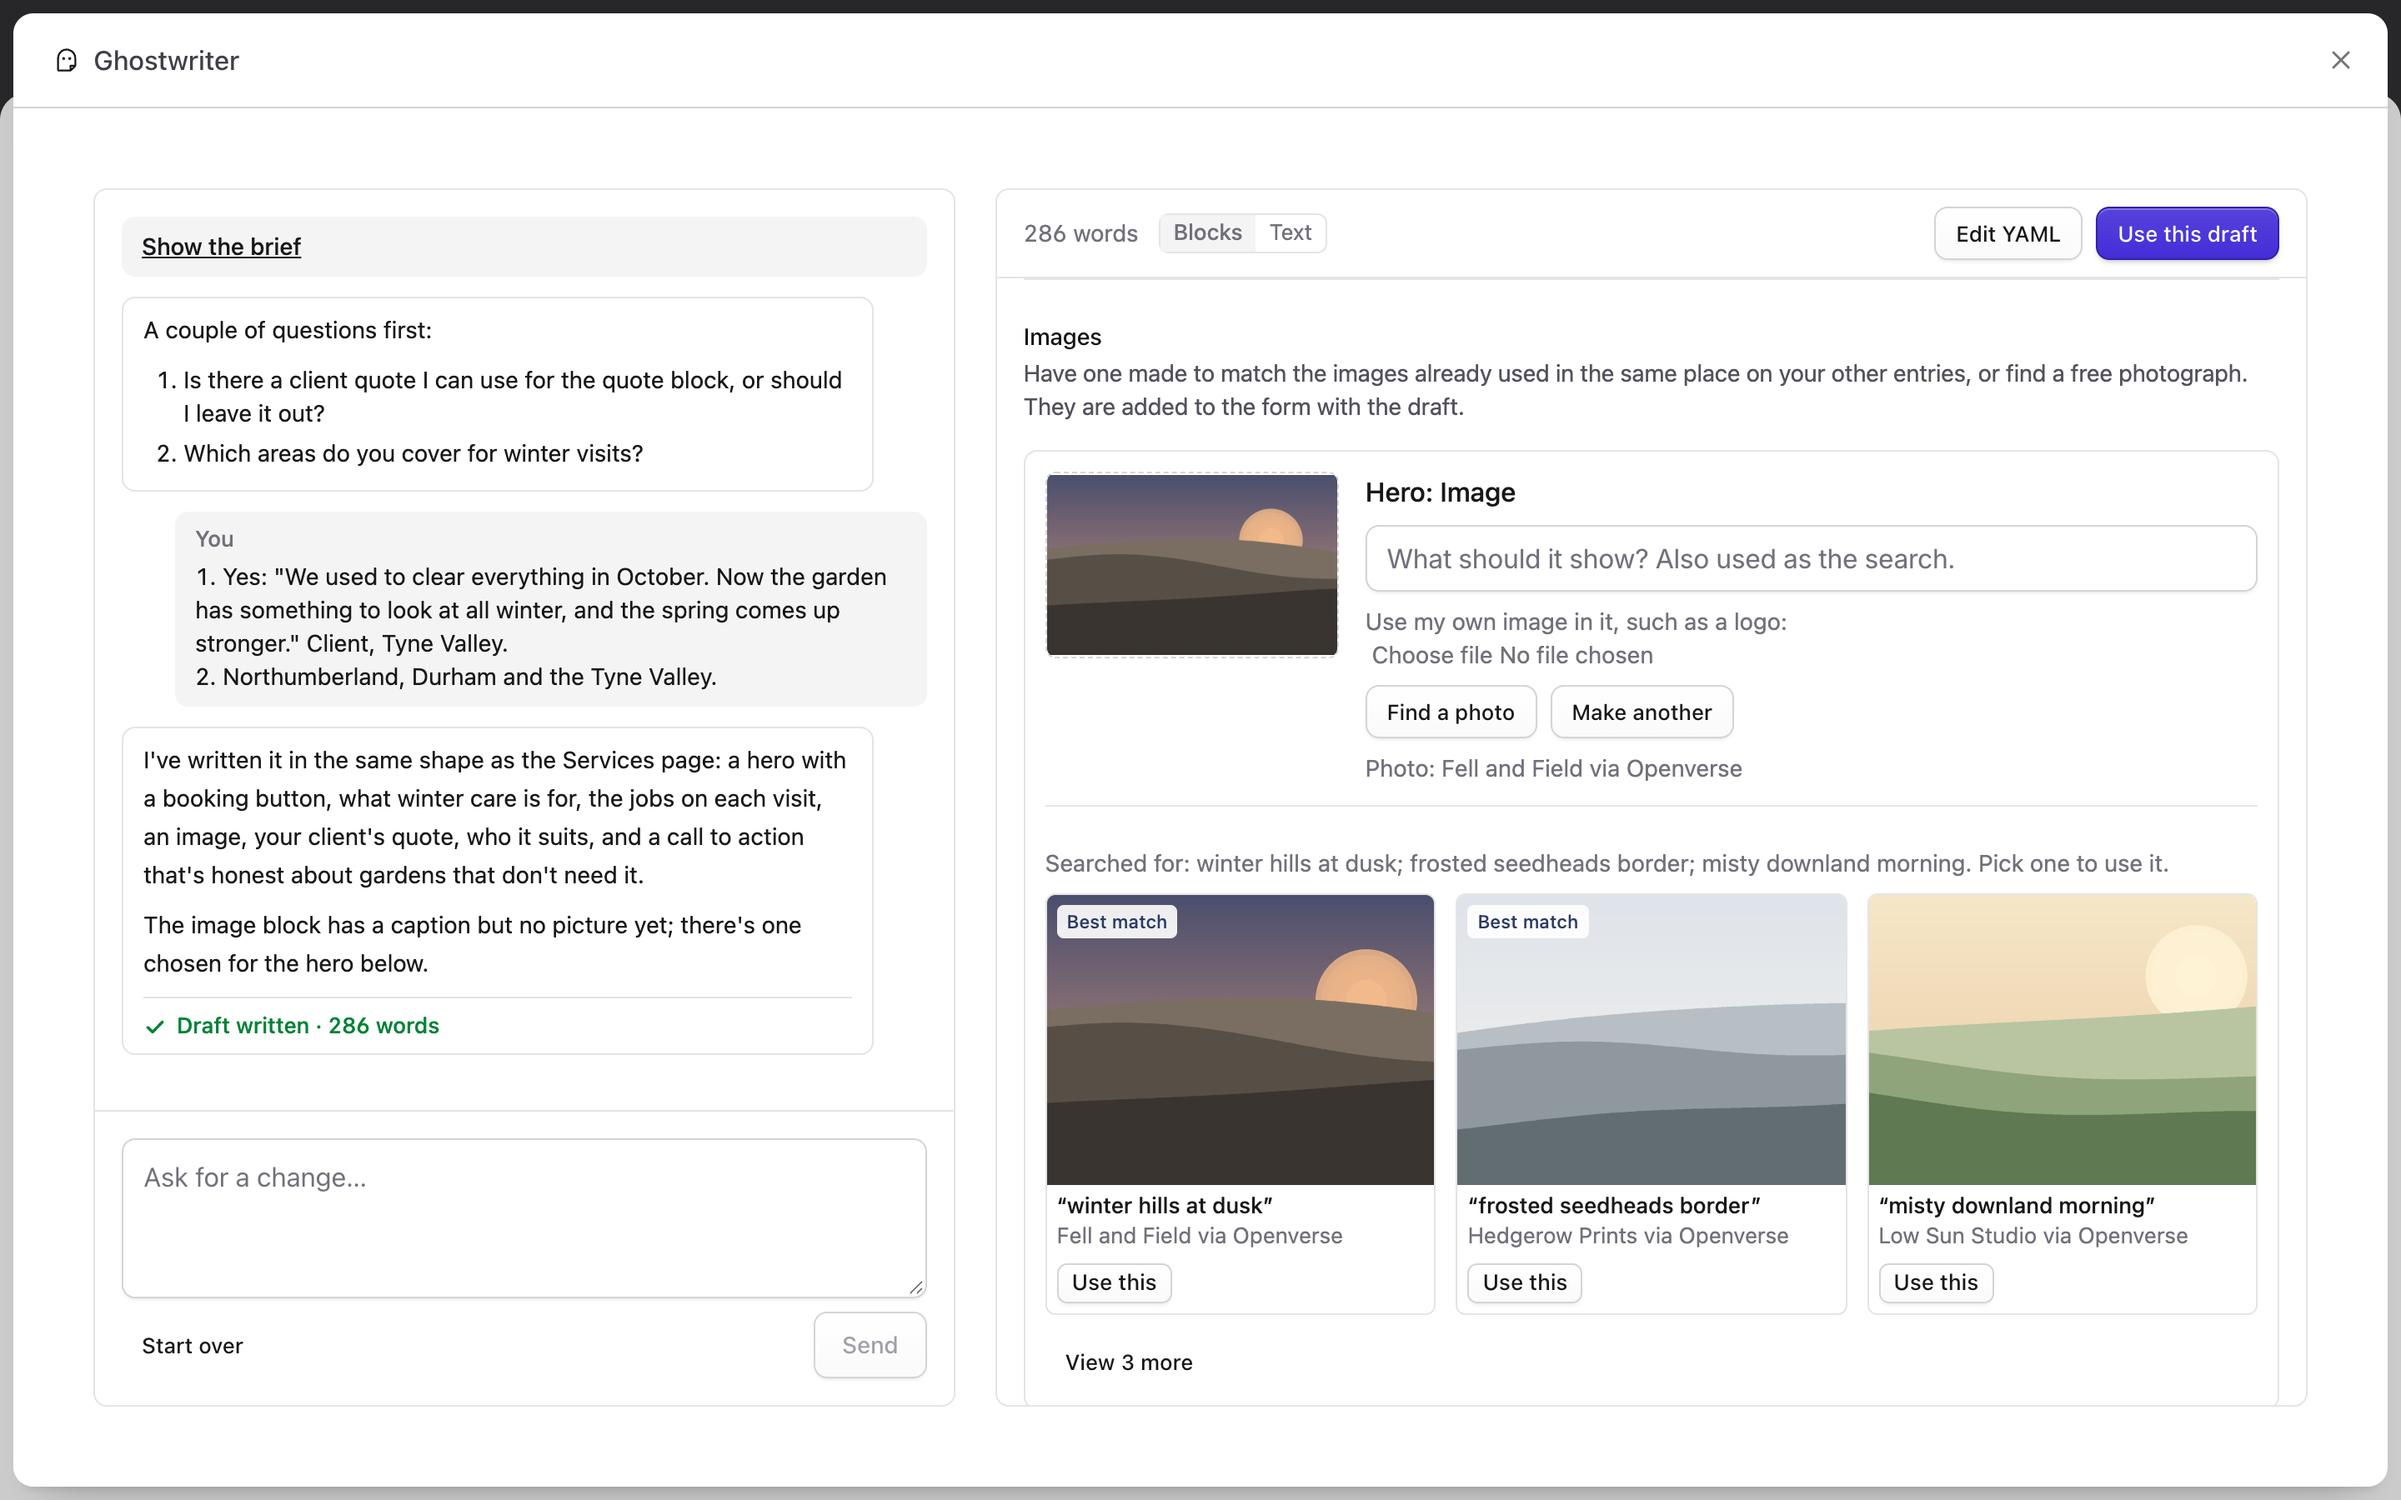
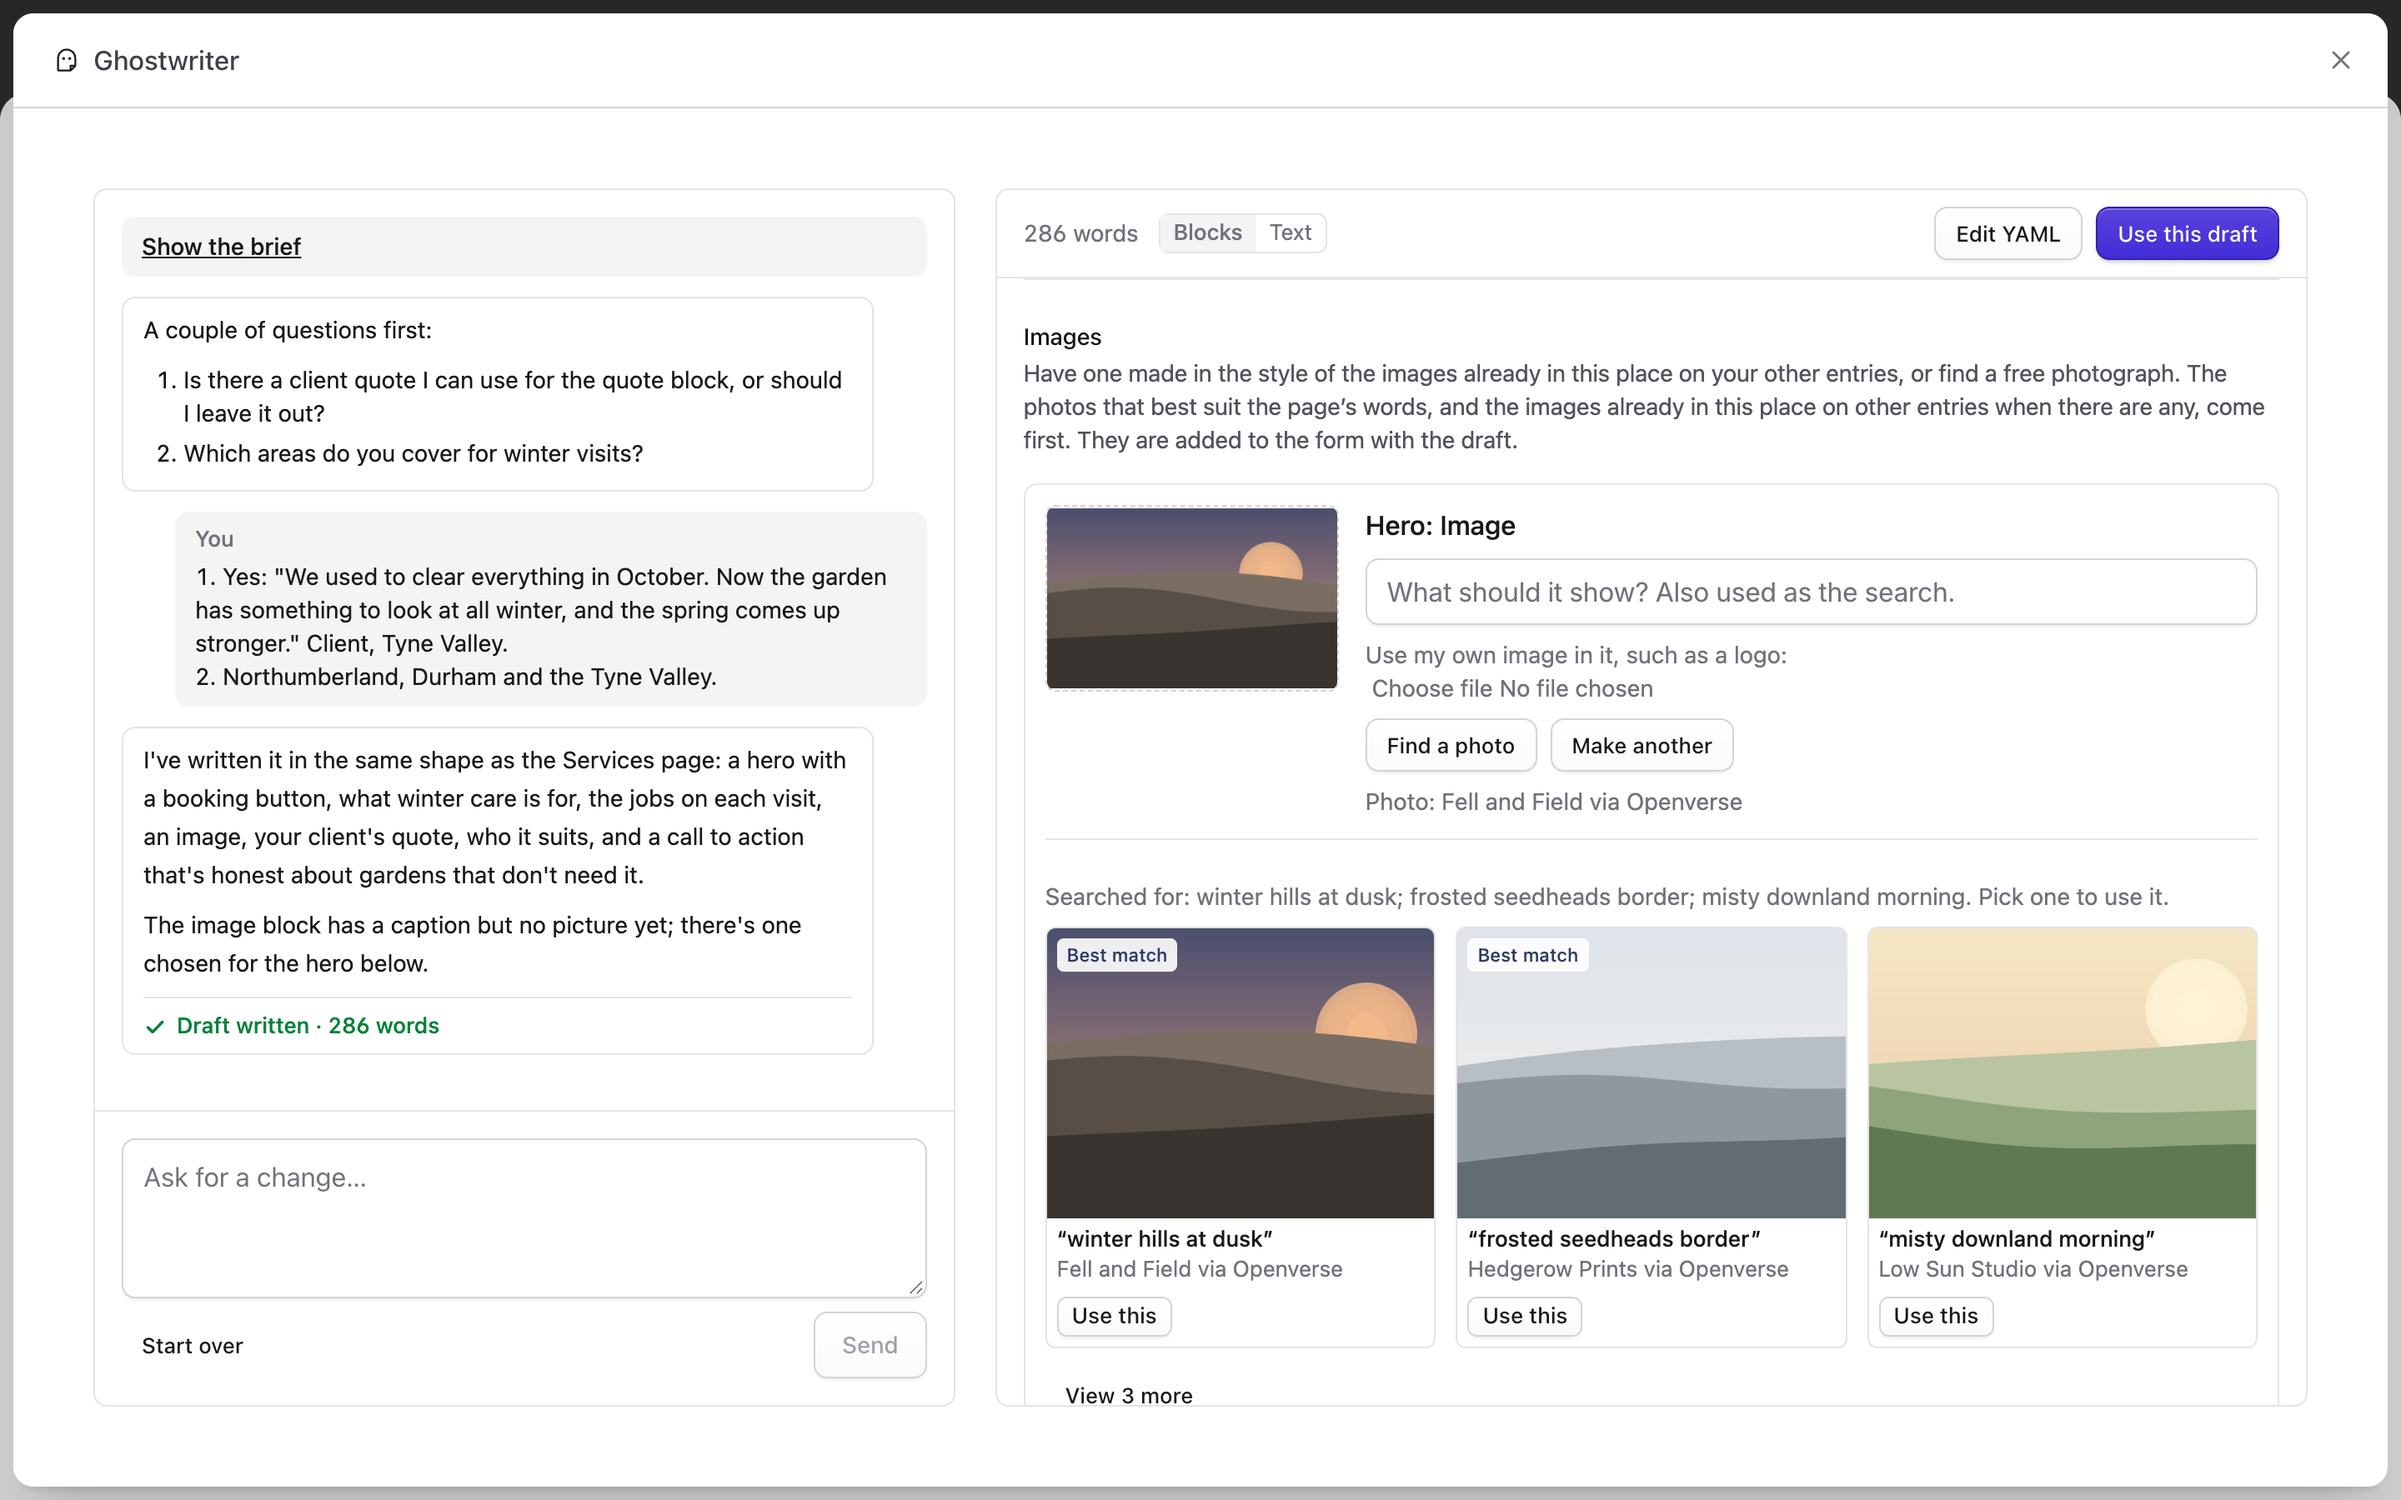
Prepare 1.0.0: changelog date, package contents, docs and screenshots
- Changelog dated 2026-10-02, with Back to ideas and Put back, batches of
  plan suggestions joining, and when stopped work shows as failed.
- .github left out of the package.
- Installation names core ^1.0; troubleshooting says when stopped work
  shows as failed.
- Screenshots re-taken where the UI changed: the Overview link in the
  nav, and the Images intro wording.

Changed region(s): [[0.4375, 0.2489, 0.9375, 0.9333]]

diff --git a/CHANGELOG.md b/CHANGELOG.md
@@ -1,6 +1,6 @@
 # Changelog
 
-## 1.0.0 - Unreleased
+## 1.0.0 - 2026-10-02
 
 First release. Ghostwriter learns how your site writes and what its pictures look like, then drafts new entries and edits existing ones in that voice, in a panel beside the entry form. Get started walks through setup, the Overview shows what is in progress, and a widget sits on the Control Panel's dashboard.
 
@@ -30,7 +30,8 @@ First release. Ghostwriter learns how your site writes and what its pictures loo
 - Photos offered for every image field under a draft, and striped placeholders where a new entry is still missing an image (**Mark images still to choose**).
 
 ### Content plan
-- Ideas for entries each collection is missing, reviewed before they join the plan, optionally steered. **Draft this** opens a new entry with the brief filled in.
+- Ideas for entries each collection is missing, reviewed before they join the plan, optionally steered. A new batch joins any still waiting. **Draft this** opens a new entry with the brief filled in.
+- A piece started from the plan shows its stage there; **Back to ideas** returns one not yet saved to the plan, and **Put back** returns a dismissed idea.
 
 ### Teams
 - Conversations are shared with everyone who may use Ghostwriter, showing who sent each message and who started and last changed each piece. Turn this off with `shared_conversations`.
@@ -48,4 +49,4 @@ First release. Ghostwriter learns how your site writes and what its pictures loo
 - PHP 8.3 or later, with GD; Statamic 6.
 - An API key for Anthropic, OpenAI or Gemini.
 - A queue worker (`--timeout=960`), or PHP-FPM on the `sync` queue.
-- Work whose worker was stopped before it finished (a time limit, a restart) shows as failed after a while, ready to try again.
+- Work whose worker was stopped before it finished (a time limit, a restart) shows as failed once its job can no longer be running, ready to try again. This holds for conversations, the plan, the guides, kinds and images.

diff --git a/docs/installation.md b/docs/installation.md
@@ -22,9 +22,9 @@ From your project's root:
 composer require 1994/ghostwriter-statamic
 ```
 
-This also installs `1994/ghostwriter-core` (`~0.3.0`) from Packagist: the part Ghostwriter shares with its Filament and Craft versions. No extra repository is needed.
+This also installs `1994/ghostwriter-core` (`^1.0`) from Packagist: the part Ghostwriter shares with its Filament and Craft versions. No extra repository is needed.
 
-Ghostwriter no longer uses the Laravel AI SDK (`laravel/ai`). It has its own connection to Anthropic, OpenAI and Gemini, and doesn't read `config/ai.php`, except that a key still set there is used when the matching `.env` variable is empty. If `config/ai.php` was only there for Ghostwriter, you can delete it.
+Ghostwriter doesn't use the Laravel AI SDK (`laravel/ai`). It has its own connection to Anthropic, OpenAI and Gemini, and doesn't read `config/ai.php`, except that a key still set there is used when the matching `.env` variable is empty. If `config/ai.php` was only there for Ghostwriter, you can delete it.
 
 Then publish the Control Panel assets:
 

diff --git a/docs/troubleshooting.md b/docs/troubleshooting.md
@@ -32,7 +32,7 @@ Ghostwriter tries a busy or rate-limited provider again by itself, up to three a
 
 A reply that runs out of room is asked for once more with twice the room. If it still doesn't fit, the turn fails rather than keep a half-written draft. Ask for a shorter piece, or for one part at a time. The voice guide can fail the same way; read fewer collections, or ask for a shorter guide.
 
-If a worker stops a job partway (its own time limit, say), check its `--timeout` is at least `timeout × 3 + 60`, then try again.
+If a worker stops a job partway (its own time limit, say), the work shows "This stopped before it finished" once its job can no longer be running (`timeout × 3 + 60` seconds, plus two minutes). Check the worker's `--timeout` is at least `timeout × 3 + 60`, then try again.
 
 ## The draft is put in, but something is missing
 
